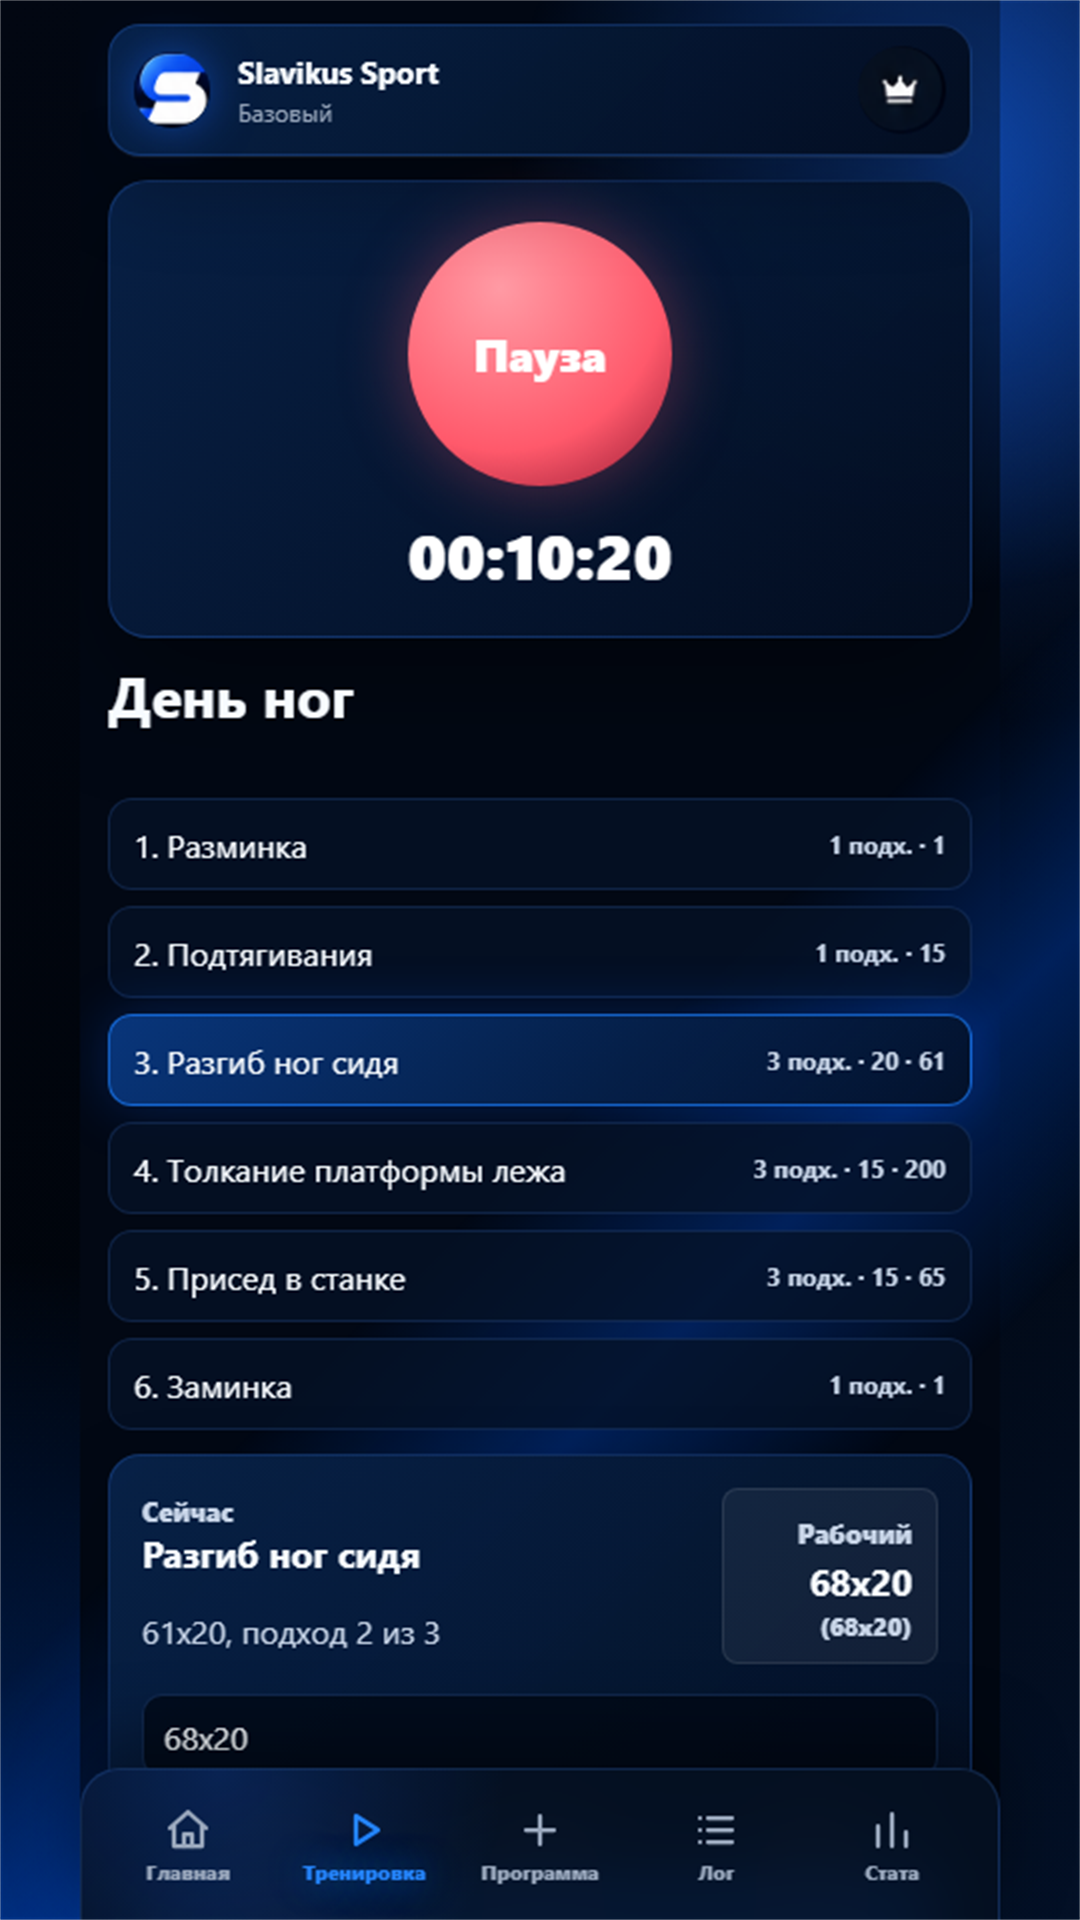
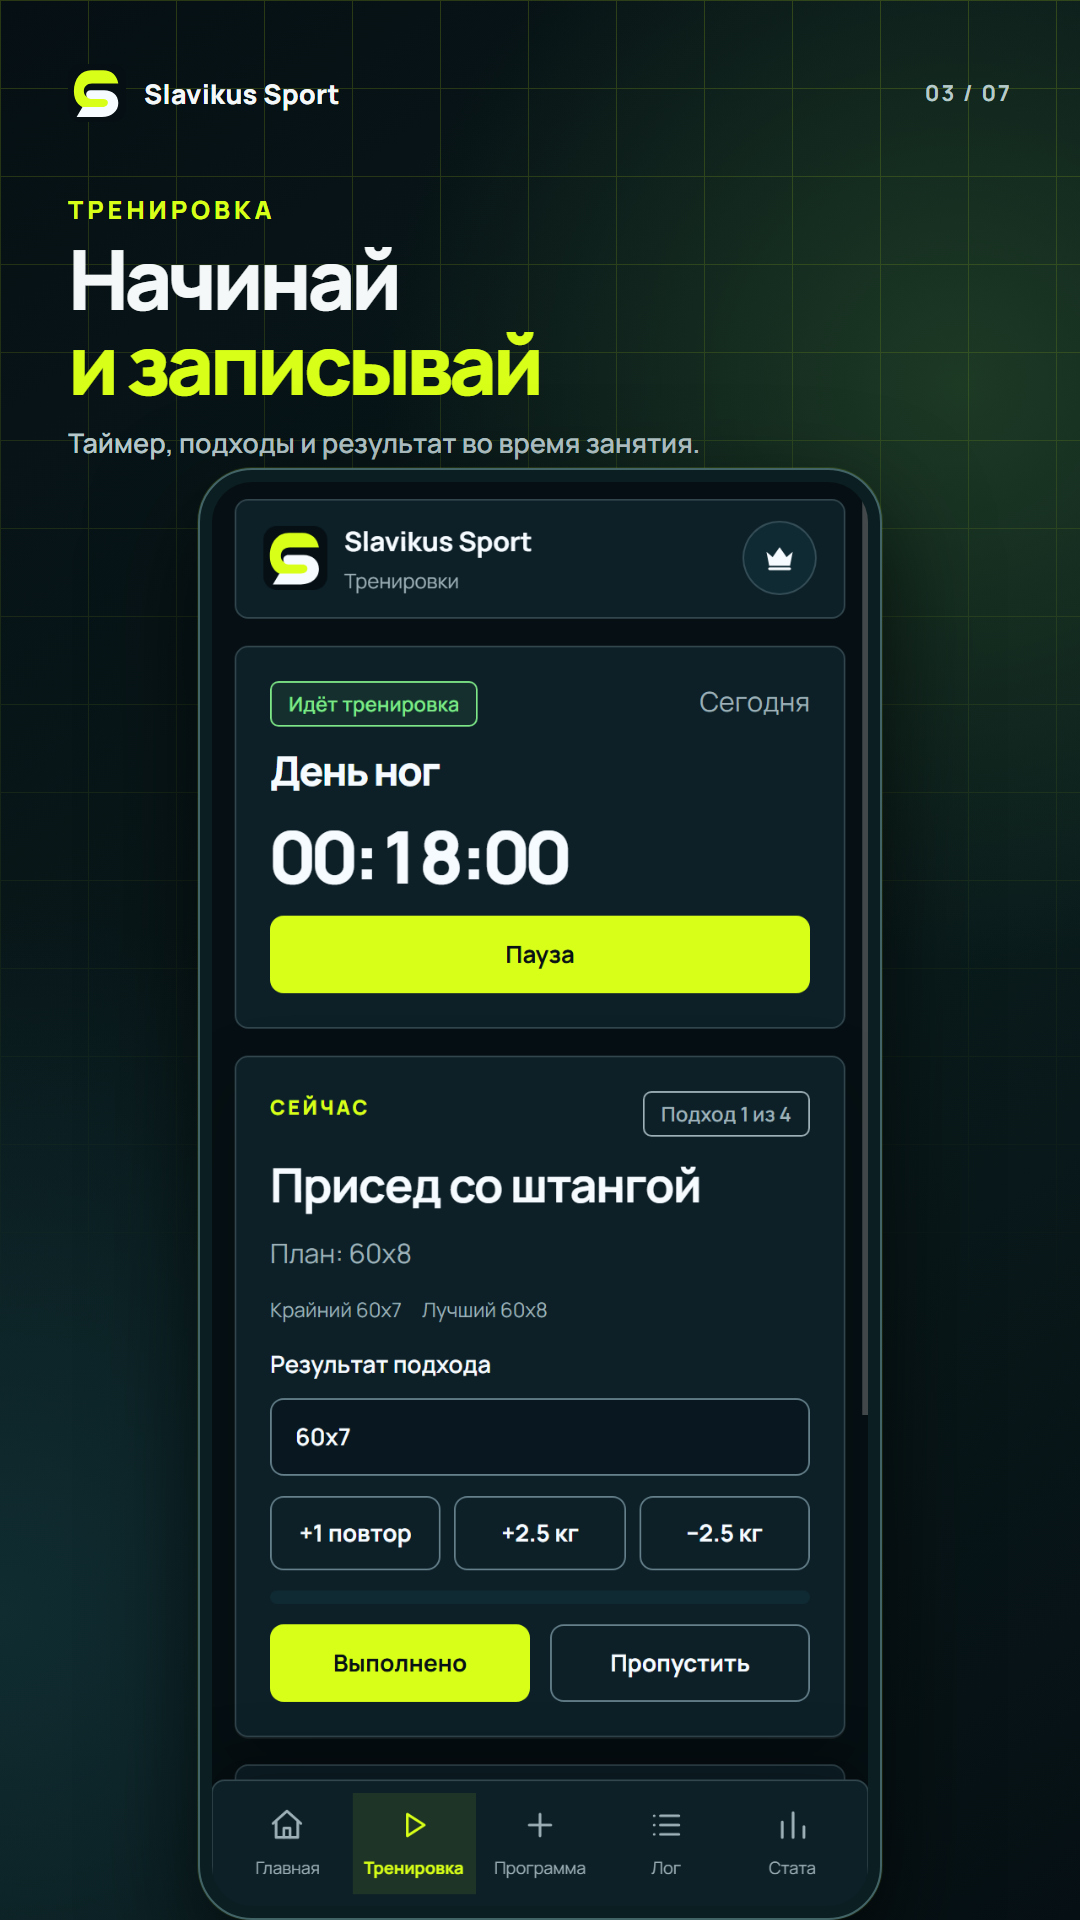
Refresh RuStore screenshots for new design

diff --git a/rustore-assets/README.md b/rustore-assets/README.md
@@ -1,0 +1,7 @@
+# Изображения для RuStore
+
+`screenshots/` содержит семь вертикальных PNG 1080 × 1920 в порядке публикации. Они показывают текущий интерфейс приложения на вымышленных тренировках и результатах. `icon-512.png` — иконка карточки приложения.
+
+Для повторной съёмки запусти локальный сервер командой `npm run dev`, затем в другом терминале выполни `node scripts/render-store-screens.mjs`. Скрипт использует локальный Google Chrome и заменяет изображения в `screenshots/`. Данные пользователя и резервные копии не используются.
+
+Перед загрузкой в RuStore проверь изображения после возможных изменений интерфейса. Предел магазина для телефонного скриншота — 3 МБ; текущие файлы меньше 1 МБ каждый.
